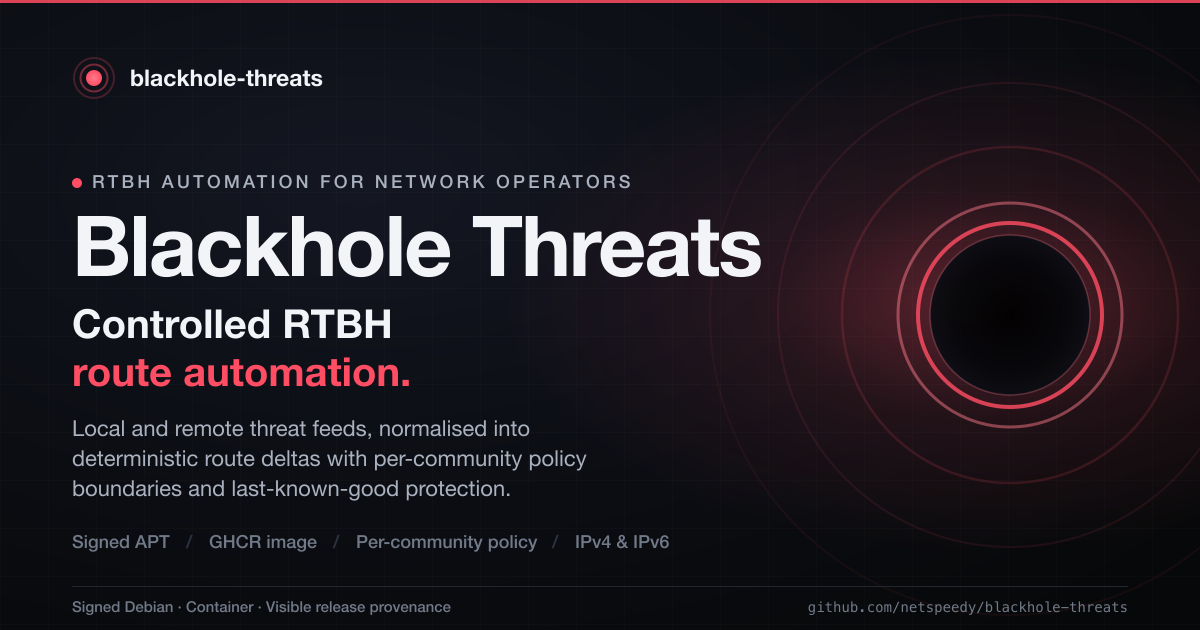
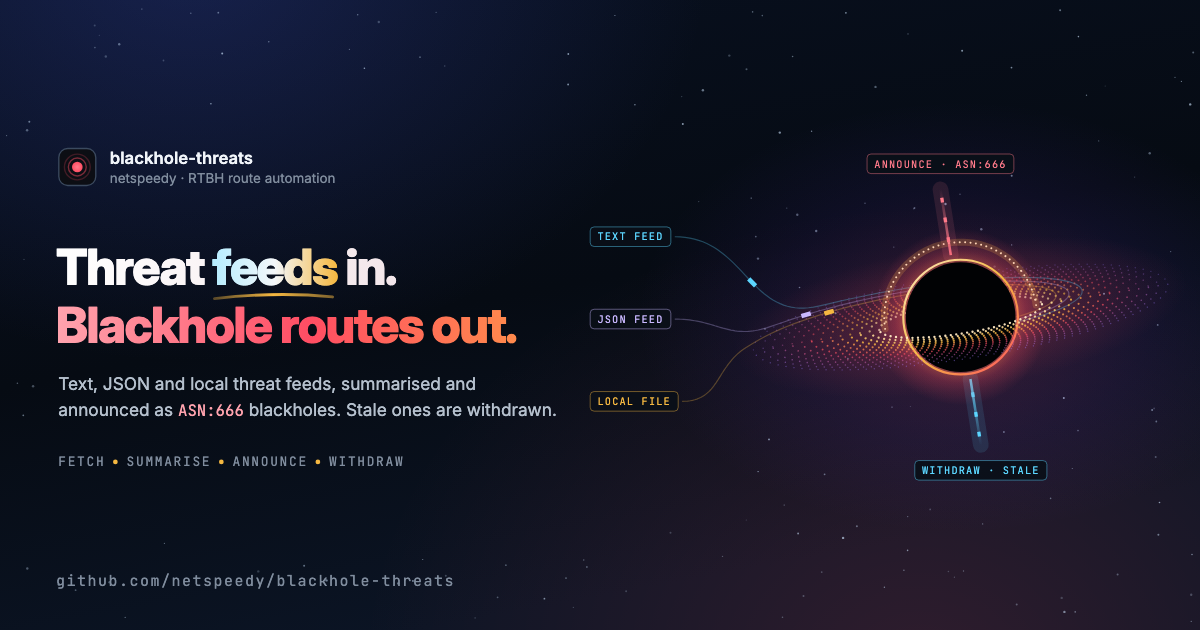
docs: generate the social cards from the README hero (#107)
The project website still shared the old artwork as its og:image, and GitHub had no
social preview set, so links to the repo showed GitHub's generated default card. The hero
generator now writes both cards from the hero itself: the same copy column and scene,
recomposed and frozen at the reduced-motion rest frame, with the repo's address along the
bottom.

website/public/og-image.png (with its SVG) is 1200x630, the size the site's meta tags and
check script already expect. assets/blackhole-threats-social-preview.png is 1280x640 for GitHub's social
preview, which has no API, so it gets uploaded by hand in the repository settings. The PNGs
are rendered with headless Chrome, which draws the embedded fonts exactly, and make
readme-hero rebuilds the hero and both cards together. The og:image and twitter:image cache
keys are bumped so link previews refetch, and their alt text describes the new card. website/scripts/check.mjs pins the og:image URL, so its cache key moves with the meta tags.

The hero itself is unchanged: rebuilding it gives the same bytes. The website's check script
and build pass with the new card. The README's note on rebuilding the banner now covers the
cards.

diff --git a/website/index.html b/website/index.html
@@ -19,14 +19,14 @@
       property="og:description"
       content="Turns local and remote threat feeds into controlled RTBH route automation, with signed Debian and container delivery."
     />
-    <meta property="og:image" content="https://netspeedy.github.io/blackhole-threats/og-image.png?v=1" />
-    <meta property="og:image:secure_url" content="https://netspeedy.github.io/blackhole-threats/og-image.png?v=1" />
+    <meta property="og:image" content="https://netspeedy.github.io/blackhole-threats/og-image.png?v=2" />
+    <meta property="og:image:secure_url" content="https://netspeedy.github.io/blackhole-threats/og-image.png?v=2" />
     <meta property="og:image:type" content="image/png" />
     <meta property="og:image:width" content="1200" />
     <meta property="og:image:height" content="630" />
     <meta
       property="og:image:alt"
-      content="Blackhole Threats share card — controlled RTBH BGP route automation with a sample refresh log."
+      content="blackhole-threats share card: Threat feeds in. Blackhole routes out. Beside it, a black hole with the feeds spiralling in and jets for announce and withdraw."
     />
     <meta name="twitter:card" content="summary_large_image" />
     <meta name="twitter:title" content="Controlled RTBH route automation" />
@@ -35,10 +35,10 @@
       content="Turns local and remote threat feeds into controlled RTBH route automation, with signed Debian and container delivery."
     />
     <meta name="twitter:url" content="https://netspeedy.github.io/blackhole-threats/" />
-    <meta name="twitter:image" content="https://netspeedy.github.io/blackhole-threats/og-image.png?v=1" />
+    <meta name="twitter:image" content="https://netspeedy.github.io/blackhole-threats/og-image.png?v=2" />
     <meta
       name="twitter:image:alt"
-      content="Blackhole Threats share card — controlled RTBH BGP route automation with a sample refresh log."
+      content="blackhole-threats share card: Threat feeds in. Blackhole routes out. Beside it, a black hole with the feeds spiralling in and jets for announce and withdraw."
     />
     <meta name="theme-color" content="#08090d" />
     <link rel="icon" href="./favicon.svg" type="image/svg+xml" />

diff --git a/scripts/readme/build_readme_hero.py b/scripts/readme/build_readme_hero.py
@@ -19,8 +19,12 @@ from __future__ import annotations
 
 import base64
 import math
+import os
 import random
 import re
+import shutil
+import subprocess
+import tempfile
 import urllib.parse
 import urllib.request
 import xml.etree.ElementTree as ET
@@ -730,15 +734,173 @@ def build_svg(spec: dict = CARD) -> str:
     return "\n".join(lines) + "\n"
 
 
+# Social cards
+
+# Both cards are the hero recomposed and frozen at its rest frame. The website's og:image is
+# 1200x630, the size link previews expect, and is only written when the repo has a website.
+# The GitHub social preview is 1280x640 and is uploaded by hand under Settings > General >
+# Social preview, since GitHub has no API for it.
+REPO = "blackhole-threats"
+OG_CARD = ROOT / "website" / "public" / "og-image"
+PREVIEW_CARD = ROOT / "assets" / f"{REPO}-social-preview"
+SVG_NS = "http://www.w3.org/2000/svg"
+CHROME_CANDIDATES = (
+    "/Applications/Google Chrome.app/Contents/MacOS/Google Chrome",
+    "/Applications/Chromium.app/Contents/MacOS/Chromium",
+    "google-chrome",
+    "chromium",
+    "chromium-browser",
+)
+
+
+def build_social_svg(hero: str, width: int, height: int) -> str:
+    """The hero's copy column on the left and its scene on the right, scaled to fill the card."""
+    ET.register_namespace("", SVG_NS)
+    root = ET.fromstring(hero)
+
+    def tag(name: str) -> str:
+        return f"{{{SVG_NS}}}{name}"
+
+    children = list(root)
+    defs = root.find(tag("defs"))
+    style = defs.find(tag("style"))
+    style.text = (style.text or "") + "  *{animation:none !important}\n    "
+    frame = next(c for c in children if c.get("clip-path") == "url(#frame)")
+    # Everything after the clipped group, bar the frame's outline, is the copy column.
+    copy_els = [
+        c
+        for c in children[children.index(frame) + 1 :]
+        if not (c.tag == tag("rect") and c.get("fill") == "none")
+    ]
+    background = list(frame)
+    nebulae = [c for c in background[1:3] if c.tag == tag("ellipse")]
+    scene_els = background[
+        5:
+    ]  # after the base, the two nebulae and the two star groups
+
+    wide = width >= 1280
+    s_copy, s_scene = (1.2, 1.04) if wide else (1.12, 0.98)
+    margin = 60 if wide else 56
+    card = ET.Element(
+        tag("svg"),
+        {
+            "viewBox": f"0 0 {width} {height}",
+            "width": str(width),
+            "height": str(height),
+            "role": "img",
+            "aria-labelledby": "title desc",
+        },
+    )
+    card.extend([root.find(tag("title")), root.find(tag("desc")), defs])
+    ET.SubElement(
+        card,
+        tag("rect"),
+        {"width": str(width), "height": str(height), "fill": "url(#spaceBg)"},
+    )
+    glow = ET.SubElement(
+        card, tag("g"), {"transform": f"scale({width / 1200:.4f} {height / 400:.4f})"}
+    )
+    glow.extend(nebulae)
+    rng = random.Random(STAR_SEED)
+    stars = ET.SubElement(card, tag("g"), {"fill": "#CFE6FF"})
+    placed = 0
+    while placed < 150:
+        x, y = rng.uniform(6, width - 6), rng.uniform(6, height - 6)
+        if 40 <= x <= 680 and 110 <= y <= 530:  # keep the copy column clear
+            continue
+        placed += 1
+        radius = rng.choice([0.6, 0.7, 0.8, 0.9, 1.0, 1.2])
+        opacity = f"{rng.uniform(0.2, 0.65):.2f}"
+        ET.SubElement(
+            stars,
+            tag("circle"),
+            {"cx": num(x), "cy": num(y), "r": num(radius), "opacity": opacity},
+        )
+    scene_x = width - 12 - 1200 * s_scene
+    scene_y = (height - 400 * s_scene) / 2 + 6
+    scene = ET.SubElement(
+        card,
+        tag("g"),
+        {"transform": f"translate({num(scene_x)} {num(scene_y)}) scale({s_scene})"},
+    )
+    scene.extend(scene_els)
+    copy_x = margin - 46 * s_copy
+    copy_y = (height - 300 * s_copy) / 2 - 30 * s_copy - 8
+    column = ET.SubElement(
+        card,
+        tag("g"),
+        {"transform": f"translate({num(copy_x)} {num(copy_y)}) scale({s_copy})"},
+    )
+    column.extend(copy_els)
+    footer = ET.SubElement(
+        card,
+        tag("text"),
+        {
+            "class": "mono",
+            "x": str(margin),
+            "y": str(height - 44),
+            "font-size": "15",
+            "letter-spacing": "1.5",
+            "fill": "#808D9E",
+        },
+    )
+    footer.text = f"github.com/netspeedy/{REPO}"
+    return ET.tostring(card, encoding="unicode") + "\n"
+
+
+def render_png(svg_path: Path, png_path: Path, width: int, height: int) -> None:
+    """Screenshot the card in headless Chrome, which renders the embedded fonts exactly."""
+    chrome = os.environ.get("CHROME") or next(
+        (c for c in CHROME_CANDIDATES if Path(c).exists() or shutil.which(c)), None
+    )
+    if not chrome:
+        raise SystemExit(
+            "the social cards need Chrome or Chromium to render; set CHROME"
+        )
+    with tempfile.TemporaryDirectory() as profile:
+        subprocess.run(
+            [
+                chrome,
+                "--headless=new",
+                "--disable-gpu",
+                "--hide-scrollbars",
+                f"--user-data-dir={profile}",
+                f"--window-size={width},{height}",
+                f"--screenshot={png_path}",
+                svg_path.resolve().as_uri(),
+            ],
+            check=True,
+            capture_output=True,
+        )
+
+
+def write_social_cards(hero: str) -> None:
+    cards = [(PREVIEW_CARD, 1280, 640, False)]
+    if (ROOT / "website").is_dir():
+        cards.insert(0, (OG_CARD, 1200, 630, True))
+    for base, width, height, keep_svg in cards:
+        svg = build_social_svg(hero, width, height)
+        svg = svg.replace("__FONT_FACES__", font_faces(svg))
+        ET.fromstring(svg)
+        base.parent.mkdir(parents=True, exist_ok=True)
+        png = base.with_suffix(".png")
+        with tempfile.TemporaryDirectory() as tmp:
+            svg_path = base.with_suffix(".svg") if keep_svg else Path(tmp) / "card.svg"
+            svg_path.write_text(svg, encoding="utf-8")
+            render_png(svg_path, png, width, height)
+        print(f"Wrote {png.relative_to(ROOT)} ({width}x{height})")
+
+
 def main() -> None:
-    svg = build_svg()
-    svg = svg.replace("__FONT_FACES__", font_faces(svg))
+    hero = build_svg()
+    svg = hero.replace("__FONT_FACES__", font_faces(hero))
     if "http://" in svg.replace("http://www.w3.org/2000/svg", "") or "https://" in svg:
         raise SystemExit("external reference found in the hero SVG")
     ET.fromstring(svg)  # well-formed, or this raises
     OUTPUT.parent.mkdir(parents=True, exist_ok=True)
     OUTPUT.write_text(svg, encoding="utf-8")
     print(f"Wrote {OUTPUT.relative_to(ROOT)} ({len(svg.encode()) / 1024:.1f} KiB)")
+    write_social_cards(hero)
 
 
 if __name__ == "__main__":

diff --git a/README.md b/README.md
@@ -253,12 +253,16 @@ make build
 package, and `make website-build` builds the GitHub Pages site after
 `npm ci --prefix website`.
 
-The banner at the top of this page is generated. Edit the copy, layout or timing
-in `scripts/readme/build_readme_hero.py` and run `make readme-hero` to rebuild
-`assets/blackhole-threats-readme-hero.svg`. It downloads the font subsets from
-Google Fonts, so it needs network access. If you change the headline's words,
-measure them again with `scripts/readme/measure_headline.py`, which explains its
-own dependencies.
+The banner at the top of this page and the social cards are generated. Edit the
+copy, layout or timing in `scripts/readme/build_readme_hero.py` and run `make
+readme-hero`. That rebuilds `assets/blackhole-threats-readme-hero.svg`, the
+website's `website/public/og-image.png` and
+`assets/blackhole-threats-social-preview.png`, which is the image for GitHub's
+social preview and is uploaded by hand in the repository settings. It downloads the
+font subsets from Google Fonts, so it needs network access, and it renders the cards
+with headless Chrome or Chromium. If you change the headline's words, measure them
+again with `scripts/readme/measure_headline.py`, which explains its own
+dependencies.
 
 ## License
 
